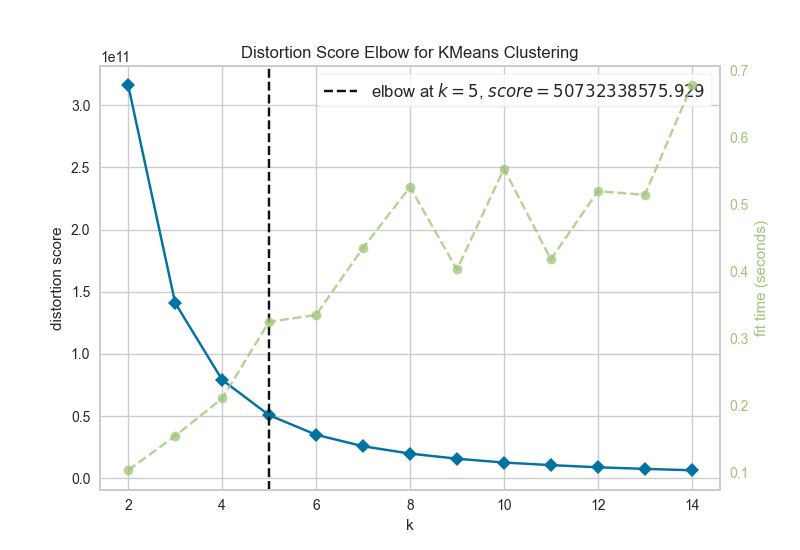
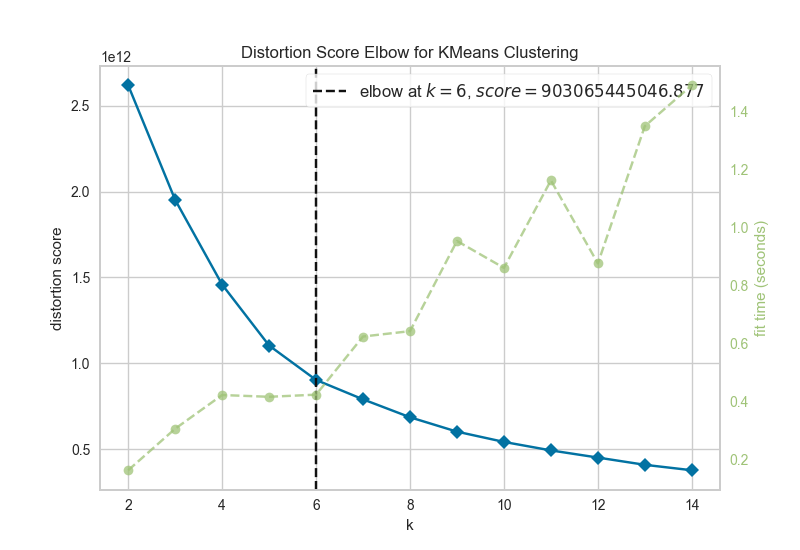
commit this mess

diff --git a/pca.py b/pca.py
@@ -1,11 +1,12 @@
 from sklearn.preprocessing import StandardScaler
 from sklearn.decomposition import PCA
 import matplotlib.pyplot as plt
+import numpy as np
 import pandas as pd
 
 import preprocessing
 
-dataset = 2
+dataset = 1
 
 if dataset == 1:
     target_values = [0, 1]
@@ -23,24 +24,66 @@ elif dataset == 2:
     # colors = ['r', 'g', 'b', 'c', 'm', 'y', 'k', 'navy', 'crimson', 'deepskyblue']
 
 
-X_train, y_train, X_test, y_test = preprocessing.preprocess(dataset)
-X_train = StandardScaler().fit_transform(X_train)
-pca = PCA(n_components=n_components)
-principalComponents = pca.fit_transform(X_train)
-principalDf = pd.DataFrame(data = principalComponents, columns = ['principal component 1', 'principal component 2'])
-finalDf = pd.concat([principalDf, y_train], axis = 1)
+X, y = preprocessing.preprocess(dataset)
+X_train = StandardScaler().fit_transform(X)
 
-fig = plt.figure(figsize = (8, 8))
-ax = fig.add_subplot(1, 1, 1)
-ax.set_xlabel('Principal Component 1', fontsize = 15)
-ax.set_ylabel('Principal Component 2', fontsize = 15)
-ax.set_title('2 component PCA: Dataset ' + str(dataset), fontsize = 20)
-for target, color in zip(target_values, colors):
-    indicesToKeep = finalDf[target_column] == target
-    ax.scatter(finalDf.loc[indicesToKeep, 'principal component 1']
-               , finalDf.loc[indicesToKeep, 'principal component 2']
-               , c = color
-               , s = 10)
-ax.legend(target_descriptors)
-ax.grid()
-plt.show()
+if False:
+    pca = PCA(n_components=n_components)
+    principalComponents = pca.fit_transform(X_train)
+    principalDf = pd.DataFrame(data = principalComponents, columns = ['principal component 1', 'principal component 2'])
+    finalDf = pd.concat([principalDf, y_train], axis = 1)
+
+    fig = plt.figure(figsize = (8, 8))
+    ax = fig.add_subplot(1, 1, 1)
+    ax.set_xlabel('Principal Component 1', fontsize = 15)
+    ax.set_ylabel('Principal Component 2', fontsize = 15)
+    ax.set_title('2 component PCA: Dataset ' + str(dataset), fontsize = 20)
+    for target, color in zip(target_values, colors):
+        indicesToKeep = finalDf[target_column] == target
+        ax.scatter(finalDf.loc[indicesToKeep, 'principal component 1']
+                   , finalDf.loc[indicesToKeep, 'principal component 2']
+                   , c = color
+                   , s = 10)
+    ax.legend(target_descriptors)
+    ax.grid()
+    plt.show()
+
+if False:
+    pca = PCA(n_components=0.95)
+    pca.fit(X_train)
+    reduced = pca.transform(X_train)
+
+    plt.rcParams["figure.figsize"] = (8, 8)
+
+    fig, ax = plt.subplots()
+    xi = np.arange(1, pca.explained_variance_ratio_.size + 1, step=1)
+    y = np.cumsum(pca.explained_variance_ratio_)
+
+    plt.ylim(0.0, 1.1)
+    plt.plot(xi, y, marker='o', linestyle='--', color='b')
+
+    plt.xlabel('Number of Components')
+    plt.xticks(np.arange(0, pca.explained_variance_ratio_.size + 1, step=1))  # change from 0-based array index to 1-based human-readable label
+    plt.ylabel('Cumulative variance (%)')
+    plt.title('PCA, dataset ' + str(dataset))
+
+    plt.axhline(y=0.95, color='r', linestyle='-')
+    plt.text(0.5, 0.85, '95% cut-off threshold', color='red', fontsize=16)
+
+    ax.grid()
+    plt.show()
+
+# Optimal
+if True:
+    mean_vec = np.mean(X, axis=0)
+    cov_mat = (X - mean_vec).T.dot((X - mean_vec)) / (X.shape[0] - 1)
+    print('Covariance matrix \n%s' % cov_mat)
+    eig_vals, eig_vecs = np.linalg.eig(cov_mat)
+    for i in range(1, eig_vals.size):
+        print("{0}, {1}".format(cov_mat.columns[i], eig_vals[i]))
+
+
+    pca = PCA(n_components=0.95)
+    pca.fit(X_train)
+    print(pca.explained_variance_)
+    print(pca.explained_variance_ratio_)

diff --git a/expectation_maximization.py b/expectation_maximization.py
@@ -1,52 +1,39 @@
 import matplotlib.pyplot as plt
 from sklearn import mixture
+from sklearn.preprocessing import StandardScaler
+from sklearn.metrics import homogeneity_completeness_v_measure
+import collections
 
 import numpy as np
-import itertools
-
 import preprocessing
-dataset = 2
 
-X_train, y_train, X_test, y_test = preprocessing.preprocess(dataset)
+dataset = 1
 
-lowest_bic = np.infty
-bic = []
-n_components_range = range(2, 15)
-cv_types = ['spherical', 'tied', 'diag', 'full']
+X, y = preprocessing.preprocess(dataset)
+X = StandardScaler().fit_transform(X)
 
-for cv_type in cv_types:
-    for n_components in n_components_range:
+# Generate plot
+if False:
+    n_components = np.arange(1, 10)
+    models = [mixture.GaussianMixture(n, covariance_type='full', random_state=0).fit(X)
+              for n in n_components]
 
-        # Fit a Gaussian mixture with EM
-        gmm = mixture.GaussianMixture(n_components=n_components,
-                                      covariance_type=cv_type)
-        gmm.fit(X_train)
-        bic.append(gmm.bic(X_train))
-        if bic[-1] < lowest_bic:
-            lowest_bic = bic[-1]
-            best_gmm = gmm
+    plt.plot(n_components, [m.bic(X) for m in models], label='BIC')
+    plt.legend(loc='best')
+    plt.xlabel('n_components')
+    plt.ylabel('BIC')
+    plt.title('EM, dataset ' + str(dataset))
+    plt.axvline(x=5, color='r', linestyle='-')
+    plt.xticks(n_components)
+    plt.grid()
+    plt.show()
 
-bic = np.array(bic)
-color_iter = itertools.cycle(['navy', 'turquoise', 'cornflowerblue',
-                              'darkorange'])
-clf = best_gmm
-bars = []
-
-# Plot the BIC scores
-plt.figure(figsize=(8, 6))
-for i, (cv_type, color) in enumerate(zip(cv_types, color_iter)):
-    xpos = np.array(n_components_range) + .2 * (i - 2)
-    bars.append(plt.bar(xpos, bic[i * len(n_components_range):
-                                  (i + 1) * len(n_components_range)],
-                        width=.2, color=color))
-plt.xticks(n_components_range)
-plt.ylim([bic.min() * 1.01 - .01 * bic.max(), bic.max()])
-plt.title('BIC score per model, Dataset ' + str(dataset))
-xpos = np.mod(bic.argmin(), len(n_components_range)) + .65 +\
-    .2 * np.floor(bic.argmin() / len(n_components_range))
-plt.text(xpos, bic.min() * 0.97 + .03 * bic.max(), '*', fontsize=14)
-plt.xlabel('Number of components')
-plt.ylabel('BIC')
-plt.legend([b[0] for b in bars], cv_types)
-
-plt.show()
+if True:
+    n = 6
+    model = mixture.GaussianMixture(n, covariance_type='full', random_state=0)
+    model.fit(X)
+    y_pred = model.predict(X)
+    dist = collections.Counter(y_pred)
+    for v in dist.values():
+        print(v/y_pred.size)
+    print(homogeneity_completeness_v_measure(y.iloc[:, 1], y_pred))

diff --git a/kmeans_clustering.py b/kmeans_clustering.py
@@ -1,17 +1,50 @@
 import matplotlib.pyplot as plt
 import numpy as np
+import pandas as pd
 from sklearn.cluster import KMeans
 from yellowbrick.cluster import KElbowVisualizer
+from sklearn.metrics import homogeneity_completeness_v_measure
+from sklearn.preprocessing import StandardScaler
+import collections
 
 import preprocessing
-dataset = 2
+dataset = 1
 
-X_train, y_train, X_test, y_test = preprocessing.preprocess(dataset)
+X, y = preprocessing.preprocess(dataset)
+X_train = StandardScaler().fit_transform(X)
 
-model = KMeans(init='k-means++')
-visualizer = KElbowVisualizer(model, k=(2, 15), metric="distortion")
-o = visualizer.fit(X_train)
-print("ok")
+if False:
+    model = KMeans(init='k-means++')
+    visualizer = KElbowVisualizer(model, k=(2, 15), metric="distortion")
+    o = visualizer.fit(X)
+
+    visualizer.show(outpath="figures/kmeans/{0}_distortion.png".format(dataset))
+
+if False:
+    N = range(2, 15)
+    v_scores = []
+    for n in N:
+        model = KMeans(init='k-means++', n_clusters=n)
+        model.fit(X)
+        y_pred = model.predict(X)
+        v_scores.append(v_measure_score(y.iloc[:,1], y_pred))
+
+    plt.xticks(N)
+    plt.bar(N, v_scores)
+    plt.title("K-means clustering v_scores, dataset " + str(dataset))
+    plt.xlabel("Number of Components")
+    plt.ylabel("v-score")
+    plt.grid(b=True, which="major")
+    plt.show()
+
+if True:
+    n = 6
+    model = KMeans(init='k-means++', n_clusters=n)
+    model.fit(X)
+    y_pred = model.predict(X)
+    dist = collections.Counter(y_pred)
+    for v in dist.values():
+        print(v/y_pred.size)
+    print(homogeneity_completeness_v_measure(y.iloc[:, 1], y_pred))
 
 
-# visualizer.show(outpath="figures/kmeans/{0}_silhouette.png".format(dataset))

diff --git a/preprocessing.py b/preprocessing.py
@@ -48,7 +48,9 @@ def preprocess(dataset):
         y = df.loc[:, df.columns == "quality"].apply(lambda x: x >= 6)
         X_train, X_test, y_train, y_test = train_test_split(X, y, test_size=0.30, random_state=0)
 
-    return (X_train, y_train, X_test, y_test)
+    X = pd.concat([X_train, X_test], axis=0).reset_index()
+    y = pd.concat([y_train, y_test], axis=0).reset_index()
+    return (X, y)
 
 if __name__ == '__main__':
     preprocess(2)

diff --git a/randomized_projections.py b/randomized_projections.py
@@ -7,10 +7,10 @@ import matplotlib.pyplot as plt
 import preprocessing
 dataset = 2
 
-X_train, y_train, X_test, y_test = preprocessing.preprocess(dataset)
-X_train = StandardScaler().fit_transform(X_train)
+X, y = preprocessing.preprocess(dataset)
+X_train = StandardScaler().fit_transform(X)
 
-X = range(2, 14)
+X = range(2, 13)
 Y = []
 for n in X:
     model = GaussianRandomProjection(n_components=n)

diff --git a/ica.py b/ica.py
@@ -37,5 +37,3 @@ plt.xlabel("Number of Components")
 plt.ylabel("|Kurtosis|")
 plt.grid(b=True, which="major")
 plt.show()
-
-
